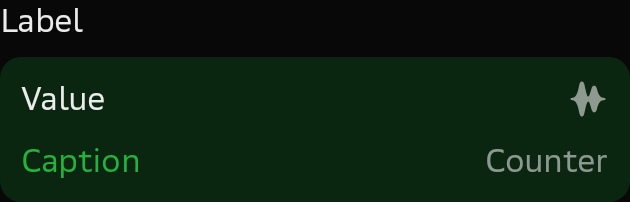
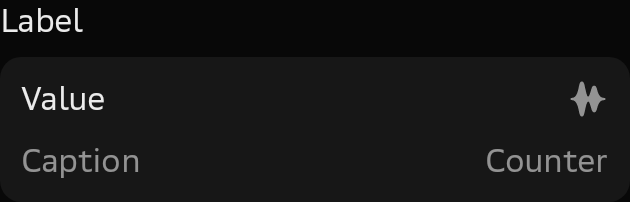
test(sdds-acore): textArea screenshots modified

Changed region(s): [[0.0302, 0.7426, 0.2413, 0.8911]]

diff --git a/playground/sandbox-compose/src/main/kotlin/com/sdds/playground/sandbox/textfield/compose/TextAreaPreviews.kt b/playground/sandbox-compose/src/main/kotlin/com/sdds/playground/sandbox/textfield/compose/TextAreaPreviews.kt
@@ -60,33 +60,33 @@ internal fun SandboxTextAreaPreviewLDefaultInnerLeft() {
     }
 }
 
-//@Composable
-//@Preview(showBackground = true)
-//internal fun SandboxTextAreaPreviewMSuccessOuterOptional() {
-//    SandboxTheme {
-//        var value by remember { mutableStateOf(TextFieldValue("")) }
-//
-//        TextField(
-//            modifier = Modifier.fillMaxWidth(),
-//            placeholderText = "Placeholder",
-//            value = value,
-//            style = TextArea.M.OuterLabel.Success.style(),
-//            labelText = "Label",
-//            optionalText = "Optional",
-//            captionText = "Caption",
-//            counterText = "Counter",
-//            onValueChange = {},
-//            readOnly = false,
-//            enabled = true,
-//            endContent = {
-//                Icon(
-//                    painter = painterResource(id = R.drawable.ic_shazam_24),
-//                    contentDescription = "",
-//                )
-//            },
-//        )
-//    }
-//}
+@Composable
+@Preview(showBackground = true)
+internal fun SandboxTextAreaPreviewMDefaultOuterOptional() {
+    SandboxTheme {
+        var value by remember { mutableStateOf(TextFieldValue("")) }
+
+        TextField(
+            modifier = Modifier.fillMaxWidth(),
+            placeholderText = "Placeholder",
+            value = value,
+            style = TextArea.M.OuterLabel.Default.style(),
+            labelText = "Label",
+            optionalText = "Optional",
+            captionText = "Caption",
+            counterText = "Counter",
+            onValueChange = {},
+            readOnly = false,
+            enabled = true,
+            endContent = {
+                Icon(
+                    painter = painterResource(id = R.drawable.ic_shazam_24),
+                    contentDescription = "",
+                )
+            },
+        )
+    }
+}
 
 @Composable
 @Preview(showBackground = true)
@@ -138,34 +138,34 @@ internal fun SandboxTextAreaPreviewXsErrorInnerOptional() {
     }
 }
 
-//@Composable
-//@Preview(showBackground = true)
-//internal fun SandboxTextAreaPreviewLReadOnly() {
-//    SandboxTheme {
-//        var value by remember { mutableStateOf(TextFieldValue("")) }
-//        Box(modifier = Modifier.padding(start = 20.dp)) {
-//            TextField(
-//                modifier = Modifier.fillMaxWidth(),
-//                placeholderText = "",
-//                value = value,
-//                style = TextArea.L.OuterLabel.RequiredStart.Success.style(),
-//                labelText = "Label",
-//                optionalText = "Optional",
-//                captionText = "",
-//                counterText = "",
-//                onValueChange = { value = it },
-//                readOnly = true,
-//                enabled = true,
-//                endContent = {
-//                    Icon(
-//                        painter = painterResource(id = R.drawable.ic_shazam_24),
-//                        contentDescription = "",
-//                    )
-//                },
-//            )
-//        }
-//    }
-//}
+@Composable
+@Preview(showBackground = true)
+internal fun SandboxTextAreaPreviewLReadOnly() {
+    SandboxTheme {
+        var value by remember { mutableStateOf(TextFieldValue("Value")) }
+        Box(modifier = Modifier.padding(start = 20.dp)) {
+            TextField(
+                modifier = Modifier.fillMaxWidth(),
+                placeholderText = "",
+                value = value,
+                style = TextArea.L.OuterLabel.RequiredStart.Default.style(),
+                labelText = "Label",
+                optionalText = "Optional",
+                captionText = "Caption",
+                counterText = "Counter",
+                onValueChange = { value = it },
+                readOnly = true,
+                enabled = true,
+                endContent = {
+                    Icon(
+                        painter = painterResource(id = R.drawable.ic_shazam_24),
+                        contentDescription = "",
+                    )
+                },
+            )
+        }
+    }
+}
 
 @Composable
 @Preview(showBackground = true)
@@ -217,33 +217,33 @@ internal fun SandboxTextAreaPreviewSDefaultInnerRight() {
     }
 }
 
-//@Composable
-//@Preview(showBackground = true)
-//internal fun SandboxTextAreaPreviewXSSuccessOuterOptional() {
-//    SandboxTheme {
-//        var value by remember { mutableStateOf(TextFieldValue("Value")) }
-//
-//        TextField(
-//            modifier = Modifier.fillMaxWidth(),
-//            placeholderText = "Placeholder",
-//            value = value,
-//            style = TextArea.Xs.OuterLabel.Success.style(),
-//            labelText = "Label",
-//            optionalText = "Optional",
-//            captionText = "Caption",
-//            counterText = "Counter",
-//            onValueChange = {},
-//            readOnly = false,
-//            enabled = true,
-//            endContent = {
-//                Icon(
-//                    painter = painterResource(id = R.drawable.ic_shazam_16),
-//                    contentDescription = "",
-//                )
-//            },
-//        )
-//    }
-//}
+@Composable
+@Preview(showBackground = true)
+internal fun SandboxTextAreaPreviewXSDefaultOuterOptional() {
+    SandboxTheme {
+        var value by remember { mutableStateOf(TextFieldValue("Value")) }
+
+        TextField(
+            modifier = Modifier.fillMaxWidth(),
+            placeholderText = "Placeholder",
+            value = value,
+            style = TextArea.Xs.OuterLabel.Default.style(),
+            labelText = "Label",
+            optionalText = "Optional",
+            captionText = "Caption",
+            counterText = "Counter",
+            onValueChange = {},
+            readOnly = false,
+            enabled = true,
+            endContent = {
+                Icon(
+                    painter = painterResource(id = R.drawable.ic_shazam_16),
+                    contentDescription = "",
+                )
+            },
+        )
+    }
+}
 
 @Composable
 @Preview(showBackground = true)
@@ -323,53 +323,53 @@ internal fun SandboxTextAreaPreviewSWarningInnerRightFocused() {
     }
 }
 
-//@Composable
-//@Preview(showBackground = true)
-//internal fun SandboxTextAreaPreviewMSuccessInnerOptionalChips() {
-//    SandboxTheme {
-//        var value by remember { mutableStateOf(TextFieldValue("")) }
-//
-//        TextField(
-//            modifier = Modifier.fillMaxWidth(),
-//            placeholderText = "Placeholder",
-//            value = value,
-//            style = TextArea.M.Success.style(),
-//            labelText = "Label",
-//            optionalText = "Optional",
-//            captionText = "Caption",
-//            counterText = "Counter",
-//            onValueChange = {},
-//            readOnly = false,
-//            enabled = true,
-//            endContent = {
-//                Icon(
-//                    painter = painterResource(id = R.drawable.ic_shazam_24),
-//                    contentDescription = "",
-//                )
-//            },
-//            chipsContent = {
-//                Chip(
-//                    label = "Chip",
-//                    endContent = {
-//                        Icon(
-//                            painter = painterResource(id = R.drawable.ic_close_24),
-//                            contentDescription = "",
-//                        )
-//                    },
-//                )
-//                Chip(
-//                    label = "Chip",
-//                    endContent = {
-//                        Icon(
-//                            painter = painterResource(id = R.drawable.ic_close_24),
-//                            contentDescription = "",
-//                        )
-//                    },
-//                )
-//            },
-//        )
-//    }
-//}
+@Composable
+@Preview(showBackground = true)
+internal fun SandboxTextAreaPreviewMInnerOptionalChips() {
+    SandboxTheme {
+        var value by remember { mutableStateOf(TextFieldValue("")) }
+
+        TextField(
+            modifier = Modifier.fillMaxWidth(),
+            placeholderText = "Placeholder",
+            value = value,
+            style = TextArea.M.Default.style(),
+            labelText = "Label",
+            optionalText = "Optional",
+            captionText = "Caption",
+            counterText = "Counter",
+            onValueChange = {},
+            readOnly = false,
+            enabled = true,
+            endContent = {
+                Icon(
+                    painter = painterResource(id = R.drawable.ic_shazam_24),
+                    contentDescription = "",
+                )
+            },
+            chipsContent = {
+                Chip(
+                    label = "Chip",
+                    endContent = {
+                        Icon(
+                            painter = painterResource(id = R.drawable.ic_close_24),
+                            contentDescription = "",
+                        )
+                    },
+                )
+                Chip(
+                    label = "Chip",
+                    endContent = {
+                        Icon(
+                            painter = painterResource(id = R.drawable.ic_close_24),
+                            contentDescription = "",
+                        )
+                    },
+                )
+            },
+        )
+    }
+}
 
 @Composable
 @Preview(showBackground = true)

diff --git a/playground/sandbox-compose/src/test/kotlin/com/sdds/playground/sandbox/compose/ComposeTextAreaScreenshotTest.kt b/playground/sandbox-compose/src/test/kotlin/com/sdds/playground/sandbox/compose/ComposeTextAreaScreenshotTest.kt
@@ -7,16 +7,16 @@ import com.sdds.playground.sandbox.textfield.compose.SandboxTextAreaPreviewLDefa
 import com.sdds.playground.sandbox.textfield.compose.SandboxTextAreaPreviewLDefaultTBTA
 import com.sdds.playground.sandbox.textfield.compose.SandboxTextAreaPreviewLDisabled
 import com.sdds.playground.sandbox.textfield.compose.SandboxTextAreaPreviewLReadOnly
+import com.sdds.playground.sandbox.textfield.compose.SandboxTextAreaPreviewMDefaultOuterOptional
 import com.sdds.playground.sandbox.textfield.compose.SandboxTextAreaPreviewMErrorOuterOptional
-import com.sdds.playground.sandbox.textfield.compose.SandboxTextAreaPreviewMSuccessInnerOptionalChips
-import com.sdds.playground.sandbox.textfield.compose.SandboxTextAreaPreviewMSuccessOuterOptional
+import com.sdds.playground.sandbox.textfield.compose.SandboxTextAreaPreviewMInnerOptionalChips
 import com.sdds.playground.sandbox.textfield.compose.SandboxTextAreaPreviewMWarningInnerOptional
 import com.sdds.playground.sandbox.textfield.compose.SandboxTextAreaPreviewSDefaultInnerRight
 import com.sdds.playground.sandbox.textfield.compose.SandboxTextAreaPreviewSDefaultOuterRightChips
 import com.sdds.playground.sandbox.textfield.compose.SandboxTextAreaPreviewSLongText
 import com.sdds.playground.sandbox.textfield.compose.SandboxTextAreaPreviewSWarningInnerRight
 import com.sdds.playground.sandbox.textfield.compose.SandboxTextAreaPreviewSWarningInnerRightFocused
-import com.sdds.playground.sandbox.textfield.compose.SandboxTextAreaPreviewXSSuccessOuterOptional
+import com.sdds.playground.sandbox.textfield.compose.SandboxTextAreaPreviewXSDefaultOuterOptional
 import com.sdds.playground.sandbox.textfield.compose.SandboxTextAreaPreviewXsErrorInnerOptional
 import org.junit.Test
 import org.junit.runner.RunWith
@@ -42,9 +42,9 @@ class ComposeTextAreaScreenshotTest(
     }
 
     @Test
-    fun testTextAreaPreviewMSuccessOuterOptional() {
+    fun testTextAreaPreviewMDefaultOuterOptional() {
         composeTestRule.setContent {
-            SandboxTextAreaPreviewMSuccessOuterOptional()
+            SandboxTextAreaPreviewMDefaultOuterOptional()
         }
     }
 
@@ -84,9 +84,9 @@ class ComposeTextAreaScreenshotTest(
     }
 
     @Test
-    fun testTextAreaPreviewXsSuccessOuterOptional() {
+    fun testTextAreaPreviewXsDefaultOuterOptional() {
         composeTestRule.setContent {
-            SandboxTextAreaPreviewXSSuccessOuterOptional()
+            SandboxTextAreaPreviewXSDefaultOuterOptional()
         }
     }
 
@@ -115,9 +115,9 @@ class ComposeTextAreaScreenshotTest(
     }
 
     @Test
-    fun testTextAreaPreviewMSuccessInnerOptionalChips() {
+    fun testTextAreaPreviewMInnerOptionalChips() {
         composeTestRule.setContent {
-            SandboxTextAreaPreviewMSuccessInnerOptionalChips()
+            SandboxTextAreaPreviewMInnerOptionalChips()
         }
     }
 
